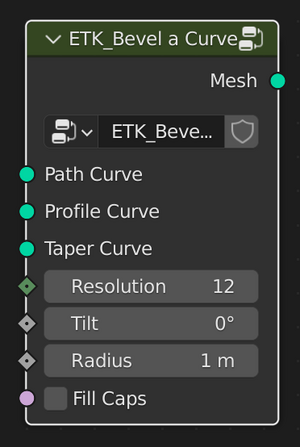
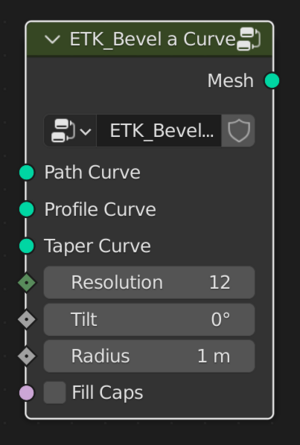
Fix node images for curves

diff --git a/tools/nimage.py b/tools/nimage.py
@@ -10,11 +10,20 @@
 #
 # In Blender,
 #   Open Blender and start a geometry node session
-#   Shift-a to insert a node
+#   Shift-a to insert a one or more nodes
 #   Enlarge as big as you can
 #   Using Window/Save Screenshot(Editor), snap an image of the geometry
 #      editor view containing the node
 #   Save it to the default ~/Documents/screen.png
+#
+# In GIMP,
+#    Open screen.png
+#    Set view to 100%
+#    Rectangle-select portion containing the node
+#    Ctrl-C to select
+#    Shift-Ctrl-V to create a new image with the selection
+#    Shift-Ctrl-E to Export As ...
+#    Name output in lower case, spaces as underscores (_)
 #
 # In a separate terminal window,
 #   Use this utility from the top of the documentation tree,
@@ -25,56 +34,43 @@
 #
 
 import argparse
-import logging
 import os
 import os.path
-import sys
+import pathlib
 import subprocess
+import sys
 
 def subArgs():
     parser = argparse.ArgumentParser(description='nimage args parsing')
-    parser.add_argument('node',
-                        help='Name of node in the screenshot'
-                        )
-    parser.add_argument('--screenshot',
-                        default='~/Documents/screen.png',
-                        help='source folder of rst files')
+    parser.add_argument('--in-folder',
+                        default='~/Documents/etk',
+                        help='source folder of image files')
     parser.add_argument('--width',
                         default=300,
                         type=int,
                         help='width in pixels of output image')
-    parser.add_argument('--image-folder',
+    parser.add_argument('--out-folder',
                         default='./ref_manual/images',
-                        help='image location')
+                        help='output image location')
     args = parser.parse_args()
     return args
 
 
 def main(args):
-    fnm = 'nodes-{0}.png'.format(args.node)
-    screenshot = os.path.expanduser(args.screenshot)
-    if os.path.exists(screenshot):
-        outimage = os.path.join(args.image_folder, fnm)
-        stat = subprocess.check_output(['convert',
-                                        '-resize',
-                                        '{0}x'.format(args.width),
-                                        screenshot,
-                                        outimage
-                                        ])
-        if stat == 0:
-            logging.info('Image file created: %s' % outimage)
-    else:
-        logging.error('Missing file - %s' % screenshot)
+    imagepath = pathlib.Path(os.path.expanduser(args.in_folder))
+    for image in list(imagepath.glob('./*.png')):
+        base = 'nodes-{0}'.format(os.path.basename(image).replace('-','_'))
+        outimage = os.path.join(args.out_folder, base)
+        print('Converting {0} -> {1} '.format(image, base))
+        subprocess.check_output(['convert',
+                                 '-resize',
+                                 '{0}x'.format(args.width),
+                                 image,
+                                 outimage
+                                 ])
 
-
+# MAIN
 if __name__ == "__main__":
-    logger = logging.getLogger('nimage')
-    logging.basicConfig(encoding='utf-8',
-                        level=logging.DEBUG,
-                        format='%(levelname)s %(asctime)s - %(message)s',
-                        datefmt='%Y-%m-%d %I:%M:%S',
-                        )
     args = subArgs()
     main(args)
-
     sys.exit(0)
